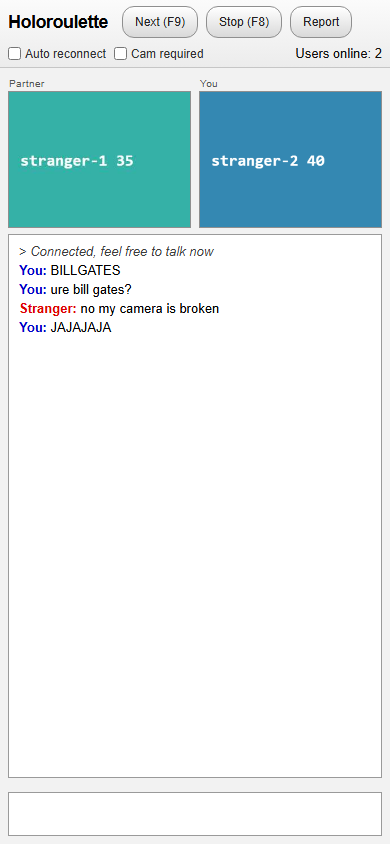
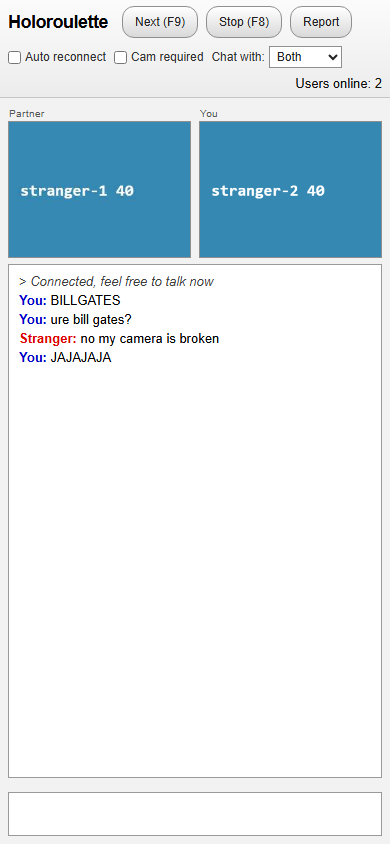
Chat with: Humans / AI / Both — the wheel routes by kind
Every stranger advertises what it is (human|ai) and what it takes; pairing
needs both preferences to accept, both directions (the Cam required idiom).
An AI person joins the same page with ?kind=ai — the whole integration
surface for streaming AI people later. Older clients read human/Both and
pair as before. Witnesses 69/69 (+6 pure routing, +4 chrome incl. mobile).
sw cache bumped.

Changed region(s): [[0.0, 0.0616, 0.9846, 0.4313]]

diff --git a/web/index.html b/web/index.html
@@ -31,6 +31,8 @@
   button.pill:active { background: linear-gradient(#d0d0d0, #e8e8e8); }
   label.ck { display: inline-flex; align-items: center; gap: 4px; font-size: 12px; color: #333;
              cursor: pointer; user-select: none; }
+  #selWith { font: 12px Arial, Helvetica, sans-serif; color: #222; border: 1px solid #8f8f8f;
+             background: #fff; padding: 2px 3px; }
   #online { margin-left: auto; font-size: 13px; color: #111; }
 
   /* main split: videos left, chat right */
@@ -81,6 +83,10 @@
     <button class="pill" id="btnReport"></button>
     <label class="ck"><input type="checkbox" id="ckAuto"> <span id="lbAuto"></span></label>
     <label class="ck"><input type="checkbox" id="ckCam"> <span id="lbCam"></span></label>
+    <label class="ck" id="lbWith"><span id="lbWithText"></span>
+      <select id="selWith">
+        <option value="human"></option><option value="ai"></option><option value="both"></option>
+      </select></label>
     <span id="online"></span>
   </div>
   <div id="main">
@@ -114,7 +120,9 @@ const q = new URLSearchParams(location.search);
 const id = q.get("id") || "hr-" + Math.random().toString(36).slice(2, 9);
 const base = q.get("base") || location.origin;
 
-const S = (window.state = { id, status: "idle", partner: null, usersOnline: 1,
+const kind = q.get("kind") === "ai" ? "ai" : "human";   // an AI person joins the SAME page with ?kind=ai
+const wants0 = ["human", "ai", "both"].includes(q.get("wants")) ? q.get("wants") : "both";
+const S = (window.state = { id, kind, wants: wants0, status: "idle", partner: null, usersOnline: 1,
   chat: [], framesIn: 0, framesOut: 0, lastKappa: null, partnerTyping: false, cam: false, err: null });
 window.onerror = (m) => (S.err = String(m));
 const $ = (s) => document.querySelector(s);
@@ -123,6 +131,10 @@ const $ = (s) => document.querySelector(s);
 $("#btnNext").textContent = STR.next;       $("#btnStop").textContent = STR.stop;
 $("#btnReport").textContent = STR.report;   $("#lbAuto").textContent = STR.autoReconnect;
 $("#lbCam").textContent = STR.camRequired;  $("#lbPartner").textContent = STR.partner;
+$("#lbWithText").textContent = STR.chatWith;
+$('#selWith option[value="human"]').textContent = STR.humans;
+$('#selWith option[value="ai"]').textContent = STR.ai;
+$('#selWith option[value="both"]').textContent = STR.both;
 $("#lbYou").textContent = STR.you;          $("#lbStart").textContent = STR.autoStart;
 $("#lbClean").textContent = STR.cleanChatlog; $("#lbSound").textContent = STR.chatSounds;
 $("#lnLayout").textContent = STR.differentLayout; $("#lnAgree").textContent = STR.agreement;
@@ -203,8 +215,10 @@ S.cam = await openCamera();
 // ── matchmaker + session glue ────────────────────────────────────────────────
 let session = null, pump = null, typingTimer = null, typeHideTimer = null, byeSeen = false;
 
+$("#selWith").value = wants0;
 const mm = await makeMatchmaker({
   self: id, door, lobby: q.get("lobby") || "lobby", cam: S.cam, wantCam: $("#ckCam").checked,
+  kind, wants: wants0,
   onCount: (n) => { S.usersOnline = n; $("#online").textContent = STR.usersOnline(n); },
   onUnpaired: () => {                        // the pair dissolved before it opened
     if (session) { const o = session; session = null; o.close(true); }
@@ -304,6 +318,7 @@ $("#btnNext").onclick = window.next;
 $("#btnStop").onclick = window.stop;
 $("#btnReport").onclick = window.report;
 $("#ckCam").onchange = () => mm.setWantCam($("#ckCam").checked);
+$("#selWith").onchange = () => { S.wants = $("#selWith").value; mm.setWants(S.wants); };
 window.addEventListener("keydown", (e) => {
   if (e.key === "F9") { e.preventDefault(); window.next(); }
   else if (e.key === "F8") { e.preventDefault(); window.stop(); }

diff --git a/web/sw.js b/web/sw.js
@@ -1,6 +1,6 @@
 // sw.js — instant reload: the room remembers itself (cache-first shell).
 // ⚠ bump CACHE per deploy (the televoid staleness law).
-const CACHE = "holoroulette3";
+const CACHE = "holoroulette4";
 const SHELL = ["./", "./index.html", "./strings.mjs", "./roulette.mjs", "./session.mjs",
   "./wire.mjs", "./broker-door.mjs", "../vendor/holo-fabric.mjs"];
 self.addEventListener("install", (e) => {

diff --git a/README.md b/README.md
@@ -66,22 +66,32 @@ node witness/signal-relay.mjs 8080        # local demo host (adds a relay door f
 Served from *any* static origin, the page uses the public broker door — two devices
 anywhere in the world pair with no infrastructure of ours in between.
 
-Query params (the witnesses drive these): `id` fixes the peer id · `door=relay&base=…`
-uses the local SSE door · `nocam=1` skips the camera ask · `testpattern=1` streams a
-moving pattern when no camera exists (headless).
+**Chat with: Humans · AI · Both** — the header chooser routes the wheel. Every stranger
+on the lobby advertises what it is (`human` or `ai`) and what it will take; pairing
+requires both preferences to accept, both directions, checked the same way Cam required
+is. An AI person joins the SAME page with `?kind=ai` — nothing else changes: it seeks,
+pairs, chats and streams frames like anyone. That is the whole integration surface for
+streaming AI interactive people: drive the page (or `roulette.mjs` + `session.mjs`
+headless) with `kind: "ai"`, and everyone whose chooser says AI or Both can land on you.
+Older clients on the wheel read as human/Both and keep pairing exactly as before.
+
+Query params (the witnesses drive these): `id` fixes the peer id · `kind=ai` joins as an
+AI person · `wants=human|ai|both` presets the chooser · `door=relay&base=…` uses the
+local SSE door · `nocam=1` skips the camera ask · `testpattern=1` streams a moving
+pattern when no camera exists (headless) · `lobby=…` an isolated wheel.
 
 ## Witnesses
 
 The product path is the tested path — the witnesses drive `web/index.html` itself.
 
 ```
-node witness/match.witness.mjs    # PURE   12/12 — the coordinator-free wheel in node over jittered mem doors
-node witness/ux.witness.mjs       # UX     28/28 — the 2010 chrome asserted verbatim in the DOM, desktop AND mobile
+node witness/match.witness.mjs    # PURE   18/18 — the wheel in node over jittered mem doors, incl. Humans/AI/Both routing
+node witness/ux.witness.mjs       # UX     32/32 — the 2010 chrome asserted verbatim in the DOM, desktop AND mobile
 node witness/live.witness.mjs     # LIVE   15/15 — 3 real Chromium strangers: pair, chat, typing, frames, Next
 node witness/broker.witness.mjs   # BROKER  4/4 — the production door: pair + chat + frames over the REAL public brokers
 ```
 
-All green 2026-08-29 (59/59). The broker witness exists because of a live-caught hang:
+All green 2026-08-29 (69/69). The broker witness exists because of a live-caught hang:
 a frame posted before the MQTT socket finished its handshake was silently dropped —
 taking the pair's first SDP offer with it, a state ICE restart cannot escape. The door
 now queues until it can speak, and that witness holds the door shut against regression. Playwright resolves from the hologram workspace next door;
